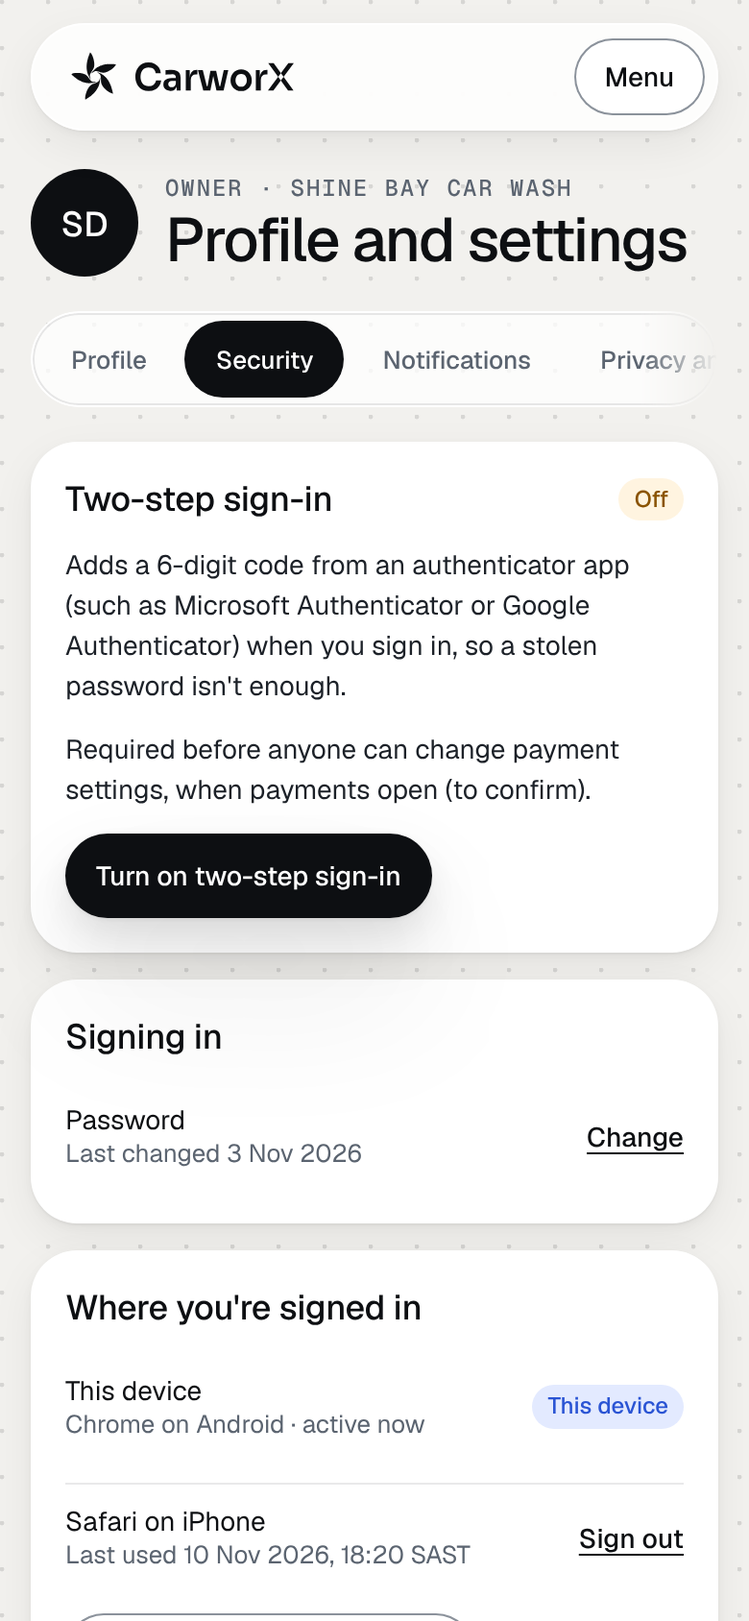
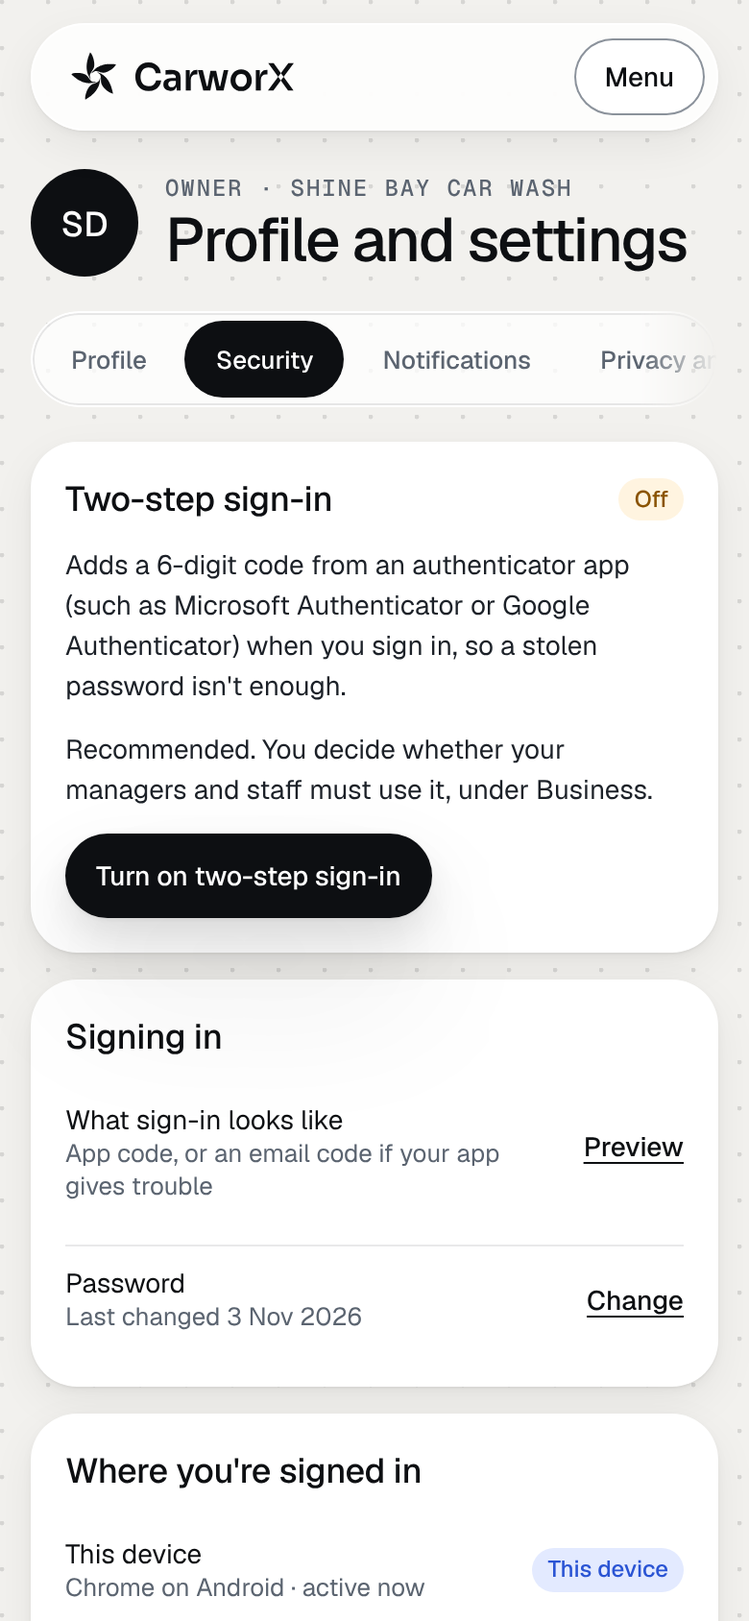
Owner decides team two-step sign-in; email code fallback; no MFA gate on owners
Owner answers 2026-11-12: owners are not forced to use two-step sign-in
(payments included) and ownership transfer has no two-step condition.
The owner chooses optional, required for managers, or required for
everyone. This is a fifth "Finish setup" task, it shows on the Business
tab, and when it is required the staff join flow adds a setup step and
team members can't turn it off. Anyone with authenticator-app trouble
can get a sign-in code by email instead (new sign-in preview; the setup
now ends on "Your backup"). NOTES records the email-fallback security
trade-off and mitigations for the build plan.

Agent: claude
Claude-Session: https://claude.ai/code/session_01Mv3uQScUEXqrnHEZgfxhwV

Changed region(s): [[0.0308, 0.6777, 0.9538, 1.0], [0.0923, 0.4621, 0.8615, 0.4929], [0.7077, 0.9242, 0.9231, 0.9858]]

diff --git a/planning/design/onboarding/account/index.html b/planning/design/onboarding/account/index.html
@@ -52,6 +52,8 @@
   const KEY = "TZ6R SLLE FYUB XYHA 7KHU PKX4 OUBK XUX4";
   const q = new URLSearchParams(location.search);
   let as = q.get("as") || "owner", tab = q.get("tab") || "profile";
+  const teamMfa = q.get("teamMfa") || "optional";
+  const required = () => (as === "manager" && teamMfa !== "optional") || (as === "staff" && teamMfa === "all");
   const mfa = { on: q.get("mfa") === "on", step: q.get("mfastep") ? +q.get("mfastep") : -1, method: "Authenticator app" };
   const biz = () => as === "owner" || as === "manager";
   const TABS = () => [["profile", "Profile"], ["security", "Security"], ["notifications", "Notifications"], ["privacy", "Privacy and data"], ...(as === "staff" ? [["work", "Your work"]] : []), ...(biz() ? [["business", "Business"]] : [])];
@@ -77,14 +79,14 @@
     el.querySelector(".segcount").textContent = `${at + 1} of ${n}`;
     el.setAttribute("aria-valuetext", `Step ${at + 1} of ${n}: ${name}`);
   }
-  const MFA_STEPS = () => ["Get an authenticator app", "Scan your code", "Enter the code", "Save recovery codes"];
+  const MFA_STEPS = () => ["Get an authenticator app", "Scan your code", "Enter the code", "Your backup"];
   function mfaFlow() {
     const S = MFA_STEPS(), i = mfa.step, name = S[i];
     let body = "";
     if (name === "Get an authenticator app") body = `<p>Use any authenticator app on your phone, for example <b>Microsoft Authenticator</b> or <b>Google Authenticator</b>. Already have one? Carry on.</p><p class="t-cap">The app makes a new 6-digit code every 30 seconds. CarworX never sees your phone.</p>`;
     if (name === "Scan your code") body = `<p>In your app, choose <b>Add account</b>, then scan this code.</p><img class="qrimg" src="qr-demo.svg" alt="QR code to add CarworX to your authenticator app" width="220" height="220"><p class="t-cap">This code is yours alone. It's made fresh when you set up, works for your account only, and isn't shown again.</p><details class="manual"><summary>Can't scan? Type the key instead</summary><p class="key">${KEY}</p><p class="t-cap">Account: CarworX · time-based</p></details>`;
     if (name === "Enter the code") body = `<label class="field">The 6-digit code from your app<input class="ob-input otp" name="otp" inputmode="numeric" autocomplete="one-time-code" maxlength="6" pattern="[0-9]{6}" placeholder="••••••"></label><p class="ob-err" role="alert" data-otperr></p>`;
-    if (name === "Save recovery codes") body = `<p>If you lose your phone, each of these codes signs you in once. Keep them somewhere safe.</p><div class="codes">${["4F7K-29QD", "M8X2-LP4T", "Q3ZR-71VN", "B6HW-X0CJ", "T9EA-5KMS", "R2YU-8DGF", "H5NB-3QWL", "C7PV-6ZRT"].map((c) => `<span>${c}</span>`).join("")}</div><div class="acts" style="flex-wrap:nowrap"><button type="button" class="cx-btn outlined sm">Download</button><button type="button" class="cx-btn outlined sm">Copy</button></div><div class="ob-consent"><label class="cx-check"><input type="checkbox" name="saved"><span class="cx-box" aria-hidden="true">${ic("tick")}</span><span>I've saved my recovery codes</span></label></div><p class="ob-err" role="alert" data-savederr></p>`;
+    if (name === "Your backup") body = `<p>If your app gives trouble (new phone, lost phone), you can get a sign-in code by <b>email</b> instead.</p><div class="line"><span>Email backup<small>${SHELL.WHO[as].name.split(" ")[0].toLowerCase().replace(/^./, (c) => c)}@example.co.za · verified</small></span><span class="cx-label">On</span></div><details class="manual"><summary>Also make recovery codes (optional)</summary><p class="t-cap">Single-use codes for when you can't reach your app or your email.</p><div class="codes">${["4F7K-29QD", "M8X2-LP4T", "Q3ZR-71VN", "B6HW-X0CJ", "T9EA-5KMS", "R2YU-8DGF", "H5NB-3QWL", "C7PV-6ZRT"].map((c) => `<span>${c}</span>`).join("")}</div></details>`;
     return `<div class="box" data-mfabox><h2>Set up two-step sign-in</h2><div class="ob-segbar" data-mfaseg aria-label="Two-step sign-in setup"></div>${body}
       <div class="acts"><button type="button" class="ob-back" data-mfa-back>${i === 0 ? "Cancel" : "Back"}</button><button type="button" class="cx-btn primary" data-mfa-next>${i === S.length - 1 ? "Turn on" : "Next"}</button></div></div>`;
   }
@@ -98,11 +100,12 @@
         <p class="ob-private">${ic("lock")}<span>We never ask for your ID number or date of birth.</span></p>`,
     security: () => `<div class="box"><h2>Two-step sign-in ${mfa.on ? '<span class="cx-label">On</span>' : '<span class="cx-label warn">Off</span>'}</h2>
         <p>${mfa.on ? "Authenticator app · added 12 Nov 2026. Each new sign-in asks for a code from it." : "Adds a 6-digit code from an authenticator app (such as Microsoft Authenticator or Google Authenticator) when you sign in, so a stolen password isn't enough."}</p>
-        <p class="t-cap">${{ owner: "Required before anyone can change payment settings, when payments open (to confirm).", manager: "Strongly recommended: you can edit the listing and invite people.", staff: "Recommended.", driver: "Recommended." }[as]}</p>
-        ${mfa.on ? `<div class="line"><span>Recovery codes<small>8 one-time codes</small></span><button type="button" class="ob-link">Make new codes</button></div><div class="line"><span>Turn off two-step sign-in</span><button type="button" class="ob-link danger" data-mfa-off>Turn off</button></div>` : mfa.step < 0 ? `<div><button type="button" class="cx-btn primary sm" data-mfa-start>Turn on two-step sign-in</button></div>` : ""}
+        <p class="t-cap">${required() ? `<b>Required by Shine Bay Car Wash</b> for ${as === "manager" ? "managers" : "everyone on the team"}. Sipho decides this.` : { owner: "Recommended. You decide whether your managers and staff must use it, under Business.", manager: "Recommended. Optional at Shine Bay Car Wash.", staff: "Recommended. Optional at Shine Bay Car Wash.", driver: "Recommended." }[as]}</p>${required() && !mfa.on ? `<p class="ob-err" style="color:var(--warn)">Turn it on to keep using Shine Bay Car Wash's business tools.</p>` : ""}
+        ${mfa.on ? `<div class="line"><span>Email backup<small>Get a sign-in code by email if your app gives trouble</small></span><span class="cx-label">On</span></div><div class="line"><span>Recovery codes<small>Optional single-use codes</small></span><button type="button" class="ob-link">Make codes</button></div>${required() ? `<div class="line"><span>Turn off two-step sign-in<small>Required by your business</small></span><span class="ob-lbl-off">Required</span></div>` : `<div class="line"><span>Turn off two-step sign-in</span><button type="button" class="ob-link danger" data-mfa-off>Turn off</button></div>`}` : mfa.step < 0 ? `<div><button type="button" class="cx-btn primary sm" data-mfa-start>Turn on two-step sign-in</button></div>` : ""}
       </div>
       ${!mfa.on && mfa.step >= 0 ? mfaFlow() : ""}
       <div class="box"><h2>Signing in</h2>
+        <div class="line"><span>What sign-in looks like<small>App code, or an email code if your app gives trouble</small></span><a class="ob-link" href="sign-in.html">Preview</a></div>
         <div class="line"><span>Password<small>Last changed 3 Nov 2026</small></span><button type="button" class="ob-link">Change</button></div>
 </div>
       <div class="box"><h2>Where you're signed in</h2>
@@ -126,10 +129,11 @@
     business: () => `<div class="box"><h2>Shine Bay Car Wash</h2>
         <div class="line"><span>Team and roles<small>Invite, change roles, remove</small></span><a class="ob-link" href="../setup/index.html#t-team">Open</a></div>
         <div class="line"><span>Who gets the booking<small>The customer picks, with "Anyone available"</small></span><a class="ob-link" href="../setup/index.html#b-assign">Change</a></div>
+        ${as === "owner" ? `<div class="line"><span>Two-step sign-in for your team<small>${{ optional: "Optional", managers: "Required for managers", all: "Required for everyone" }[teamMfa]}</small></span><a class="ob-link" href="../setup/index.html#s-mfa">Change</a></div>` : ""}
         ${as === "owner" ? `<div class="line"><span>What staff can see<small>First name only</small></span><a class="ob-link" href="../setup/index.html#p-contact">Change</a></div>` : ""}
         <div class="line"><span>Listing details<small>Name, services, hours, location, photo</small></span><button type="button" class="ob-link">Edit</button></div>
-        ${as === "owner" ? `<div class="line"><span>Payments<small>Opens with bookings. Needs two-step sign-in.</small></span><span class="ob-lbl-off">Later</span></div>` : ""}</div>
-      ${as === "owner" ? `<div class="box"><h2>Ownership</h2><div class="line"><span>Transfer ownership<small>To a manager. They must have two-step sign-in on.</small></span><button type="button" class="ob-link">Start</button></div><div class="line"><span>Close the business listing<small>Removes it from search. History stays.</small></span><button type="button" class="ob-link danger">Close</button></div></div>` : `<div class="box"><h2>Leave this business</h2><p>Sipho will see that you left.</p><div><button type="button" class="cx-btn outlined sm danger">Leave Shine Bay Car Wash</button></div></div>`}`,
+        ${as === "owner" ? `<div class="line"><span>Payments<small>Opens with bookings.</small></span><span class="ob-lbl-off">Later</span></div>` : ""}</div>
+      ${as === "owner" ? `<div class="box"><h2>Ownership</h2><div class="line"><span>Transfer ownership<small>Hand Shine Bay Car Wash to someone on your team.</small></span><button type="button" class="ob-link">Start</button></div><div class="line"><span>Close the business listing<small>Removes it from search. History stays.</small></span><button type="button" class="ob-link danger">Close</button></div></div>` : `<div class="box"><h2>Leave this business</h2><p>Sipho will see that you left.</p><div><button type="button" class="cx-btn outlined sm danger">Leave Shine Bay Car Wash</button></div></div>`}`,
   };
   let mounted = null;
   function render() {
@@ -152,14 +156,13 @@
     else if (t.hasAttribute("data-mfa-next")) {
       const S = MFA_STEPS(), name = S[mfa.step];
       if (name === "Enter the code") { const v = document.querySelector("[name=otp]").value; if (!/^\d{6}$/.test(v)) { document.querySelector("[data-otperr]").textContent = "Enter the 6 digits from your app."; document.querySelector("[name=otp]").focus(); return; } }
-      if (name === "Save recovery codes") { if (!document.querySelector("[name=saved]").checked) { document.querySelector("[data-savederr]").textContent = "Tick this once you've saved them."; return; } mfa.on = true; mfa.step = -1; render(); return; }
+      if (name === "Your backup") { mfa.on = true; mfa.step = -1; render(); return; }
       mfa.step += 1; render();
     }
   });
   // Clear an error as soon as it's fixed.
   document.addEventListener("input", (e) => { if (e.target.name === "otp") document.querySelector("[data-otperr]").textContent = ""; });
   document.addEventListener("change", (e) => {
-    if (e.target.name === "saved") document.querySelector("[data-savederr]").textContent = "";
   });
   render();
   if (q.get("menu")) document.querySelector("[data-sh-menu]").click();

diff --git a/planning/design/onboarding/setup/index.html b/planning/design/onboarding/setup/index.html
@@ -56,15 +56,16 @@
     <section data-step id="hub" data-kind="hub">
       <div class="hubhead">
         <div><p class="cx-eyebrow">Shine Bay Car Wash · Live</p><h1>Finish setup</h1><p class="t-cap" style="margin-top:6px">Your listing is already in search. These make bookings work the way you want.</p></div>
-        <div class="ring" data-ring><b data-ringtext>0/4</b></div>
+        <div class="ring" data-ring><b data-ringtext>0/5</b></div>
       </div>
       <div class="tasks">
         <article class="task" data-task="team"><span class="ic" data-ic="team"></span><b>Team <span data-badge></span></b><p>Invite managers and staff. Owners and managers can invite.</p><button type="button" class="cx-btn outlined sm" data-go="t-team">Start</button></article>
         <article class="task" data-task="assign"><span class="ic" data-ic="user"></span><b>Who gets the booking <span data-badge></span></b><p>Customers pick a staff member, or you assign one.</p><button type="button" class="cx-btn outlined sm" data-go="b-assign">Start</button></article>
         <article class="task" data-task="contact"><span class="ic" data-ic="lock"></span><b>What staff can see <span data-badge></span></b><p>How much customer detail your staff see.</p><button type="button" class="cx-btn outlined sm" data-go="p-contact">Start</button></article>
+        <article class="task" data-task="secure"><span class="ic" data-ic="lock"></span><b>Team sign-in security <span data-badge></span></b><p>Whether managers and staff must use two-step sign-in.</p><button type="button" class="cx-btn outlined sm" data-go="s-mfa">Start</button></article>
         <article class="task" data-task="cover"><span class="ic" data-ic="eye"></span><b>Cover photo <span data-badge></span></b><p>The first thing customers see on your listing.</p><button type="button" class="cx-btn outlined sm" data-go="c-cover">Start</button></article>
       </div>
-      <div class="sendbar"><p class="t-body" data-sendmsg>4 tasks to go.</p><span class="cx-label info" data-donechip hidden>Setup complete</span></div>
+      <div class="sendbar"><p class="t-body" data-sendmsg>5 tasks to go.</p><span class="cx-label info" data-donechip hidden>Setup complete</span></div>
       <section class="later" aria-labelledby="later-h">
         <p class="cx-eyebrow" id="later-h">Later · opens when bookings launch</p>
         <div class="tasks">
@@ -120,6 +121,9 @@
     </section>
     <!-- What staff can see -->
     <section data-step id="p-contact" data-title="What staff can see" data-kind="task" data-group="contact" data-count data-require="contact" data-next="hub" data-cta="Done"><div class="card"><h2>What staff can see</h2><div data-q="contact"></div><div data-actions></div></div></section>
+    <!-- Team sign-in security (owner decides, 2026-11-12) -->
+    <section data-step id="s-mfa" data-title="Team sign-in security" data-kind="task" data-group="secure" data-count data-require="teamMfa" data-next="hub" data-cta="Done"><div class="card"><h2>Team sign-in security</h2><div data-q="teamMfa"></div>
+      <p class="ob-private"><span data-ic="lock"></span><span>For your own account, turn it on in Profile and settings → Security. It's recommended, not required.</span></p><div data-actions></div></div></section>
     <!-- Cover -->
     <section data-step id="c-cover" data-title="Cover photo" data-kind="task" data-group="cover" data-count data-require="cover" data-next="hub" data-cta="Done"><div class="card"><h2>Cover photo</h2><div data-q="cover"></div><div data-actions></div></div></section>
   </main>
@@ -133,7 +137,8 @@
   });
   const form = document.querySelector("[data-flow]");
   const has = (v) => v != null && v !== "" && !(Array.isArray(v) && !v.length);
-  const TASKS = { team: (s) => s.sent === "yes" || has(s.solo), assign: (s) => has(s.assign), contact: (s) => has(s.contact), cover: (s) => has(s.cover) };
+  const TASKS = { team: (s) => s.sent === "yes" || has(s.solo), assign: (s) => has(s.assign), contact: (s) => has(s.contact), secure: (s) => has(s.teamMfa), cover: (s) => has(s.cover) };
+  const N = Object.keys(TASKS).length;
   form.addEventListener("ob:change", (e) => {
     const s = e.detail;
     let done = 0;
@@ -144,10 +149,10 @@
       c.querySelector("[data-badge]").outerHTML = `<span data-badge class="cx-label ${ok ? "" : "info"}">${ok ? "Done" : "To do"}</span>`;
       c.querySelectorAll(".cx-btn").forEach((b) => (b.textContent = ok ? "Edit" : "Start"));
     });
-    form.querySelector("[data-ring]").style.setProperty("--p", done / 4);
-    form.querySelector("[data-ringtext]").textContent = `${done}/4`;
-    form.querySelector("[data-sendmsg]").textContent = done === 4 ? "All set. You can change any of this later." : `${4 - done} task${4 - done === 1 ? "" : "s"} to go. Your listing stays live either way.`;
-    form.querySelector("[data-donechip]").hidden = done !== 4;
+    form.querySelector("[data-ring]").style.setProperty("--p", done / N);
+    form.querySelector("[data-ringtext]").textContent = `${done}/${N}`;
+    form.querySelector("[data-sendmsg]").textContent = done === N ? "All set. You can change any of this later." : `${N - done} task${N - done === 1 ? "" : "s"} to go. Your listing stays live either way.`;
+    form.querySelector("[data-donechip]").hidden = done !== N;
   });
   // The last invite step marks the invite as sent and shows the confirmation.
   form.addEventListener("ob:step", (e) => {

diff --git a/planning/design/onboarding/staff/index.html b/planning/design/onboarding/staff/index.html
@@ -56,6 +56,16 @@
     <section data-step id="s-days" data-title="Your days" data-kind="task" data-group="join" data-count data-require="myDays"><div class="card"><h2>Joining Shine Bay Car Wash</h2><div data-q="myDays"></div><div data-actions></div></div></section>
     <section data-step id="s-name" data-title="How customers see you" data-kind="task" data-group="join" data-count data-if="pick=customer" data-require="firstName" data-cta="Join the team"><div class="card"><h2>Joining Shine Bay Car Wash</h2><div data-q="firstName"></div><div data-actions></div></div></section>
 
+    <section data-step id="s-mfa" data-title="Two-step sign-in" data-kind="task" data-group="join" data-count data-if="mfareq=yes" data-require="joinOtp" data-cta="Join the team">
+      <div class="card"><h2>Joining Shine Bay Car Wash</h2>
+        <p class="ob-qt">Set up two-step sign-in</p>
+        <p class="ob-qh">Sipho requires it for <span data-bind="mfaWho"></span>. Use an authenticator app such as Microsoft Authenticator or Google Authenticator: choose <b>Add account</b>, then scan.</p>
+        <img src="../account/qr-demo.svg" alt="QR code to add CarworX to your authenticator app" width="200" height="200" style="display:block;border-radius:16px;box-shadow:inset 0 0 0 1px var(--line), var(--sh-1)">
+        <div data-q="joinOtp"></div>
+        <p class="ob-private"><span data-ic="mail"></span><span>If your app ever gives trouble, you can get a sign-in code by email instead.</span></p>
+        <div data-actions></div></div>
+    </section>
+
     <section data-step id="home" data-skip>
       <div class="hubhead"><div><p class="cx-eyebrow">Shine Bay Car Wash · <span data-bind="joinRole"></span></p><h1>You're on the team<span data-bind="firstName" data-prefix=", "></span></h1></div></div>
       <div class="ob-dashgrid">
@@ -76,8 +86,8 @@
       <p class="ob-private" style="margin-top:16px"><span data-ic="eye"></span><span data-if="pick=customer">This business lets customers pick who they get, so your first name shows on its listing.</span><span data-if="pick!=customer">The business assigns bookings, so customers don't see your name on the listing.</span></p>
     </section>
   </main>
-  <!-- Set by the business in Phase 2 (demo: ?pick=customer|assign&contact=phone|first|none&role=Staff|Manager) -->
-  <input type="hidden" name="pick"><input type="hidden" name="contact"><input type="hidden" name="joinRole">
+  <!-- Set by the business in Phase 2 (review: ?pick=customer|assign&contact=phone|first|none&role=Staff|Manager&teamMfa=optional|managers|all) -->
+  <input type="hidden" name="pick"><input type="hidden" name="contact"><input type="hidden" name="joinRole"><input type="hidden" name="mfareq"><input type="hidden" name="mfaWho">
 </form>
 <script src="../_shared/kit.js"></script>
 <script>
@@ -90,11 +100,17 @@
   form.elements.pick.value = q.get("pick") || "customer";
   form.elements.contact.value = { phone: "Name and phone number", first: "First name only", none: "Booking details only" }[q.get("contact") || "first"];
   form.elements.joinRole.value = q.get("role") || "Staff";
+  OB.Q.joinOtp = { t: "The 6-digit code from your app", type: "text", it: "text", ac: "one-time-code", ph: "••••••", max: 6 };
+  const tm = q.get("teamMfa") || "optional";
+  const role = form.elements.joinRole.value;
+  form.elements.mfareq.value = (tm === "all" || (tm === "managers" && role === "Manager")) ? "yes" : "";
+  form.elements.mfaWho.value = tm === "all" ? "everyone on the team" : "managers";
   const flow = OB.boot();
   // The last join step (name, or days when the business assigns) finishes on the staff home.
-  const last = () => (form.elements.pick.value === "customer" ? "s-name" : "s-days");
+  const last = () => (form.elements.mfareq.value ? "s-mfa" : form.elements.pick.value === "customer" ? "s-name" : "s-days");
   form.querySelector("#" + last()).dataset.next = "home";
-  if (last() === "s-days") form.querySelector("#s-days").dataset.cta = "Join the team";
+  ["s-days", "s-name"].forEach((id) => { if (id !== last()) delete form.querySelector("#" + id).dataset.cta; });
+  form.querySelector("#" + last()).dataset.cta = "Join the team";
   // Name prefix for the greeting.
   form.addEventListener("ob:change", () => form.querySelectorAll("[data-prefix]").forEach((el) => { if (!el.classList.contains("empty") && el.textContent) el.textContent = el.dataset.prefix + el.textContent.replace(/^, /, ""); }));
   if (q.get("demo")) {

diff --git a/planning/design/onboarding/account/sign-in.html b/planning/design/onboarding/account/sign-in.html
@@ -1,0 +1,60 @@
+<!doctype html>
+<html lang="en-ZA">
+<head>
+<meta charset="utf-8">
+<meta name="viewport" content="width=device-width, initial-scale=1">
+<title>Sign in · two-step code · CarworX (prototype)</title>
+<link rel="stylesheet" href="../_shared/tokens.css">
+<link rel="stylesheet" href="../_shared/studio.css">
+<link rel="stylesheet" href="../_shared/kit.css">
+<style>
+  /* The second sign-in step. Authenticator app first; email code as the owner-approved fallback. */
+  main { max-width: 460px; margin: 0 auto; padding: 8vh 16px 60px; }
+  .card { display: grid; gap: 16px; padding: 26px; border-radius: var(--radius-xl); background: var(--surface); box-shadow: var(--sh-2); }
+  .card h1 { font: 500 28px/32px var(--font-sans); letter-spacing: -.03em; }
+  .otp { font: 500 26px var(--font-mono); letter-spacing: .4em; text-align: center; }
+  .alt { display: grid; gap: 10px; padding-top: 14px; border-top: 1px solid var(--hair); }
+  .logo { display: block; width: 120px; margin: 0 auto 22px; }
+</style>
+</head>
+<body class="cx-canvas">
+<main>
+  <img class="logo" src="../_shared/carworx-lockup-horizontal-ink.svg" alt="CarworX">
+  <div class="card" data-state="app">
+    <p class="cx-eyebrow">Step 2 of 2 · sipho@example.co.za</p>
+    <h1 data-h tabindex="-1">Enter the code from your authenticator app</h1>
+    <p class="t-cap" data-sub>Open Microsoft Authenticator, Google Authenticator or the app you set up, and find CarworX.</p>
+    <label class="cx-vh" for="code">6-digit code</label>
+    <input class="ob-input otp" id="code" inputmode="numeric" autocomplete="one-time-code" maxlength="6" placeholder="••••••">
+    <p class="ob-err" role="alert" data-err></p>
+    <button type="button" class="cx-btn primary wide" data-verify>Sign in</button>
+    <div class="alt">
+      <button type="button" class="ob-link" data-email>Trouble with your app? Email me a code instead</button>
+      <button type="button" class="ob-link" data-back hidden>Use my authenticator app</button>
+      <button type="button" class="ob-link">Use a recovery code</button>
+    </div>
+  </div>
+  <p class="t-cap" style="text-align:center;margin-top:16px">Prototype: any 6 digits work; nothing is sent.</p>
+</main>
+<script>
+  const card = document.querySelector(".card"), h = card.querySelector("[data-h]"), sub = card.querySelector("[data-sub]"), err = card.querySelector("[data-err]"), code = card.querySelector("#code");
+  const set = (st) => {
+    card.dataset.state = st;
+    code.value = ""; err.textContent = "";
+    card.querySelector("[data-email]").hidden = st === "email";
+    card.querySelector("[data-back]").hidden = st !== "email";
+    if (st === "email") { h.textContent = "Check your email"; sub.textContent = "We sent a 6-digit code to s***o@example.co.za. It works for 10 minutes. Didn't get it? You can send another in 60 seconds."; }
+    else if (st === "done") { h.textContent = "You're signed in"; sub.textContent = "Taking you to Shine Bay Car Wash…"; card.querySelectorAll("input, [data-verify], .alt, label").forEach((x) => (x.hidden = true)); }
+    else { h.textContent = "Enter the code from your authenticator app"; sub.textContent = "Open Microsoft Authenticator, Google Authenticator or the app you set up, and find CarworX."; }
+    h.focus();
+  };
+  card.querySelector("[data-email]").onclick = () => set("email");
+  card.querySelector("[data-back]").onclick = () => set("app");
+  code.oninput = () => (err.textContent = "");
+  const verify = () => (/^\d{6}$/.test(code.value) ? set("done") : ((err.textContent = "Enter the 6 digits."), code.focus()));
+  card.querySelector("[data-verify]").onclick = verify;
+  code.onkeydown = (e) => e.key === "Enter" && verify();
+  if (new URLSearchParams(location.search).get("state") === "email") set("email");
+</script>
+</body>
+</html>

diff --git a/planning/design/onboarding/_shared/kit.js b/planning/design/onboarding/_shared/kit.js
@@ -272,6 +272,16 @@
         ["Booking details only", "Service, time and place. No customer details.", "lock"],
       ]),
     },
+    teamMfa: {
+      t: "Two-step sign-in for your team",
+      h: "You decide. A 6-digit code from an authenticator app at each sign-in; anyone can get the code by email if their app gives trouble.",
+      type: "tiles",
+      opts: tiles([
+        ["Optional", "Managers and staff choose for themselves.", "user"],
+        ["Required for managers", "Managers set it up; staff choose.", "lock"],
+        ["Required for everyone", "Managers and staff set it up when they join.", "team"],
+      ]),
+    },
     cover: {
       t: "Pick a cover photo",
       h: "Prototype: synthetic swatches stand in for your photos.",

diff --git a/planning/design/onboarding/NOTES.md b/planning/design/onboarding/NOTES.md
@@ -137,4 +137,10 @@ For review, the role is set in the address only: `account/index.html?as=driver|s
 - **Recovery codes:** Supabase Auth has no built-in recovery codes. The build plan chooses between custom single-use codes (stored hashed) or asking people to add a second authenticator device.
 - Passkey sign-in was dropped from this round. "Sign out" confirms on screen and points to Security to sign out everywhere.
 
-*For the owner to confirm:* making two-step sign-in **required** for owners before payment settings (it is shown that way), and transfer of ownership only to a manager with two-step sign-in on.
+**Owner answers (2026-11-12):**
+1. **Owners are not forced** to use two-step sign-in (it is recommended), payment settings included.
+2. **Ownership transfer has no two-step condition.**
+3. **The owner decides** whether two-step sign-in is **optional**, **required for managers**, or **required for everyone**. This is a fifth "Finish setup" task, *Team sign-in security* (`setup/#s-mfa`), and it shows on the owner's Business tab. When it is required: the staff join flow adds a "Set up two-step sign-in" step (`staff/?teamMfa=all`); a manager's or staff member's Security tab shows "Required by Shine Bay Car Wash" with a prompt to turn it on, and they can't turn it off.
+4. **Email fallback.** If someone has trouble with their authenticator app, they can get a sign-in code **by email** instead (`account/sign-in.html`: "Trouble with your app? Email me a code instead"). The setup's last step is now "Your backup": email backup on, with recovery codes optional.
+
+*Security trade-off for the build plan:* if the password reset also goes to the same email, an email code makes the second step only as strong as the email account. Mitigations to consider: email codes only after the correct password, 10-minute single-use codes with rate limits, and an email alert "someone signed in with an email code". Supabase Auth's MFA factors are TOTP and phone, so the email code is custom work (for example the existing email OTP, used as a step-up).
